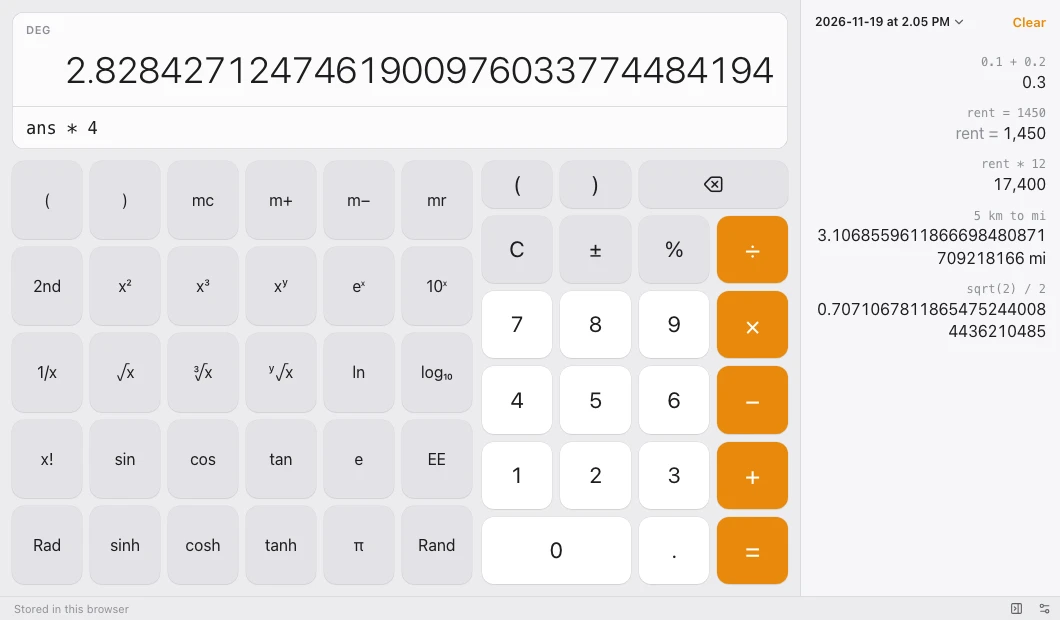
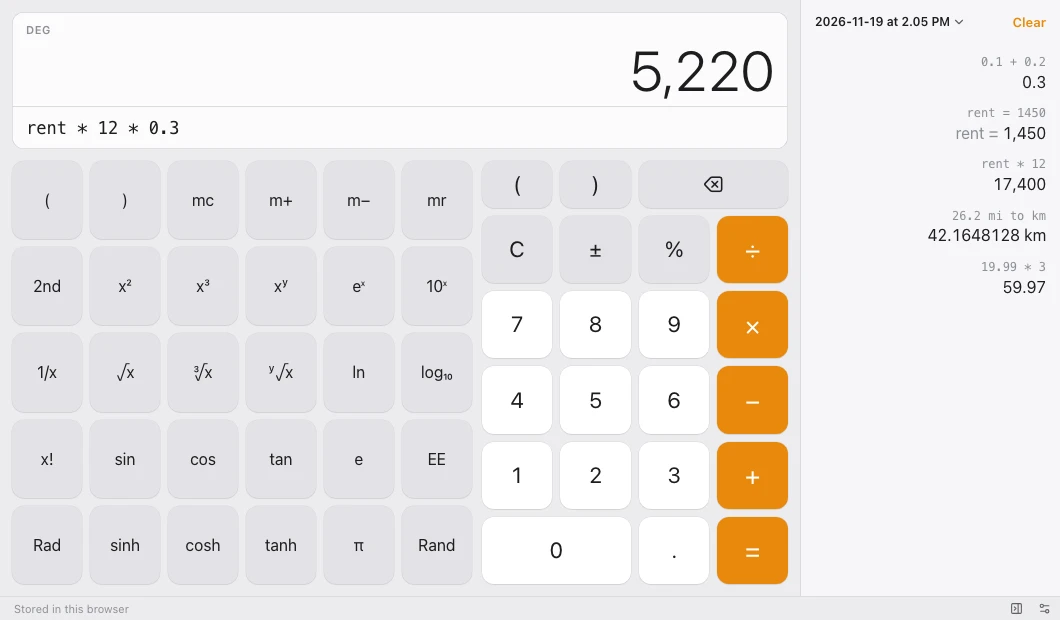
Retake the README screenshot with everyday numbers in the display and the session

Changed region(s): [[0.0623, 0.0613, 0.7472, 0.1532], [0.7783, 0.3371, 0.9962, 0.5516], [0.0311, 0.1839, 0.1557, 0.2145]]

diff --git a/README.md b/README.md
@@ -2,7 +2,7 @@
 
 Abacite is a calculator that gets decimals right. You type the whole calculation, see the result as you type, and every calculation stays in a session you can come back to. It runs as a desktop app, in the browser and on the command line.
 
-![Abacite with the Scientific keypad beside the Basic one. The display shows 2.8284271247461900976033774484194 for the line "ans * 4" being typed. The session panel on the right lists earlier calculations with their results: 0.1 + 0.2 is 0.3, rent = 1450, rent * 12 is 17,400, 5 km to mi is 3.1068559611866698480871709218166 mi, and sqrt(2) / 2. The status bar at the bottom says "Stored in this browser" and has the session panel and Settings buttons.](docs/images/screenshot.webp)
+![Abacite with the Scientific keypad beside the Basic one. The display shows 5,220 for the line "rent * 12 * 0.3" being typed. The session panel on the right lists earlier calculations with their results: 0.1 + 0.2 is 0.3, rent = 1450, rent * 12 is 17,400, 26.2 mi to km is 42.1648128 km, and 19.99 * 3 is 59.97. The status bar at the bottom says "Stored in this browser" and has the session panel and Settings buttons.](docs/images/screenshot.webp)
 
 - **Exact decimals.** `0.1 + 0.2` is `0.3`, to 34 significant digits, with no floating-point noise.
 - **Type the whole calculation.** The result shows as you type, and the Basic and Scientific keypads type into the same line.
